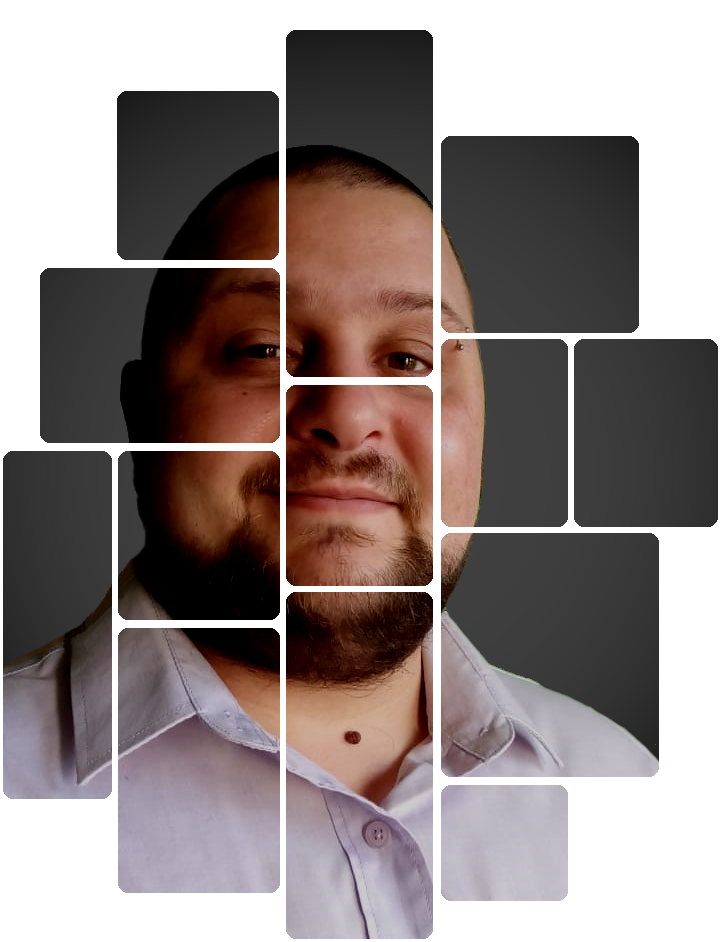
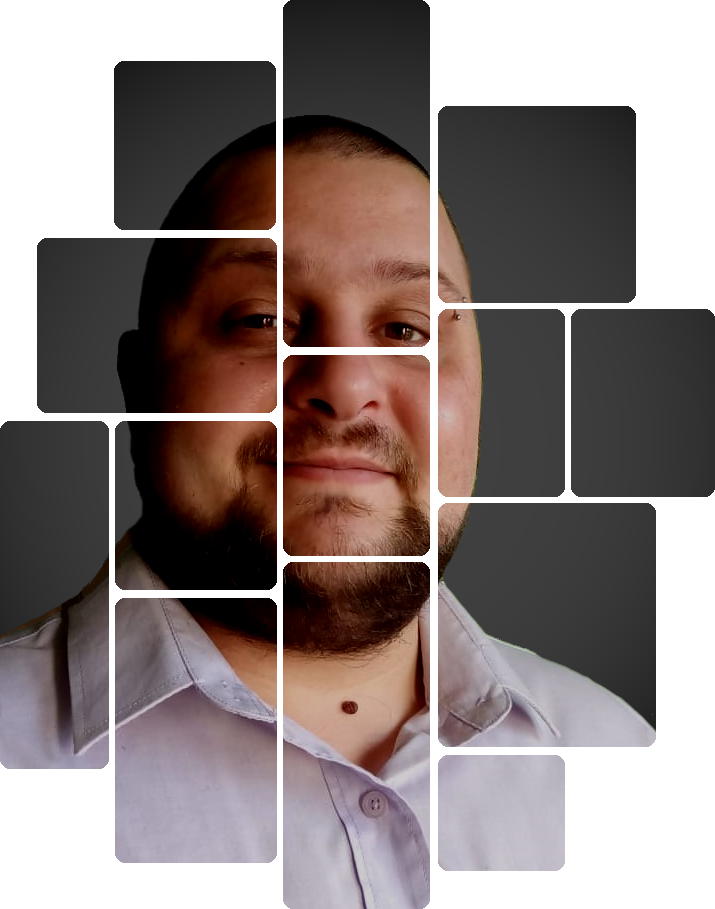
d

diff --git a/index.html b/index.html
@@ -94,10 +94,10 @@
                 <div class="acerca-left">
 
                     <div class="foto">
-                        <img id="foto-circulo" class="foto-circulo"
-                            src="https://raw.githubusercontent.com/rosteigen/rosteigen.github.io/main/Imgs/foto-perfil.png"
-                            alt="circulo">
-
+                        
+                            <img id="foto-circulo2" class="foto-circulo2"
+                            src="https://raw.githubusercontent.com/rosteigen/rosteigen.github.io/main/Imgs/foto-perfil2.png"
+                            alt="circulo2">
                     </div>
                 </div>
                 <div class="acerca-right">

diff --git a/styles.css b/styles.css
@@ -286,16 +286,19 @@ div {
 }
 
 .acerca-left {
-    flex-direction: column;
     justify-content: center;
 }
 
 .foto-circulo {
     height: 500px;
     filter: grayscale(100%);
-    background: radial-gradient(circle, rgba(56,56,56,1) 26%, rgba(31,30,30,1) 84%);
+    background: radial-gradient(circle, rgba(56,56,56,1) 26%, rgba(31,30,30,1) 84%);   
+}
 
-    
+.foto-circulo2 {
+    height: 80%;
+    filter: grayscale(100%);   
+    justify-content: center;
 }
 
 .foto-circulo:hover {
